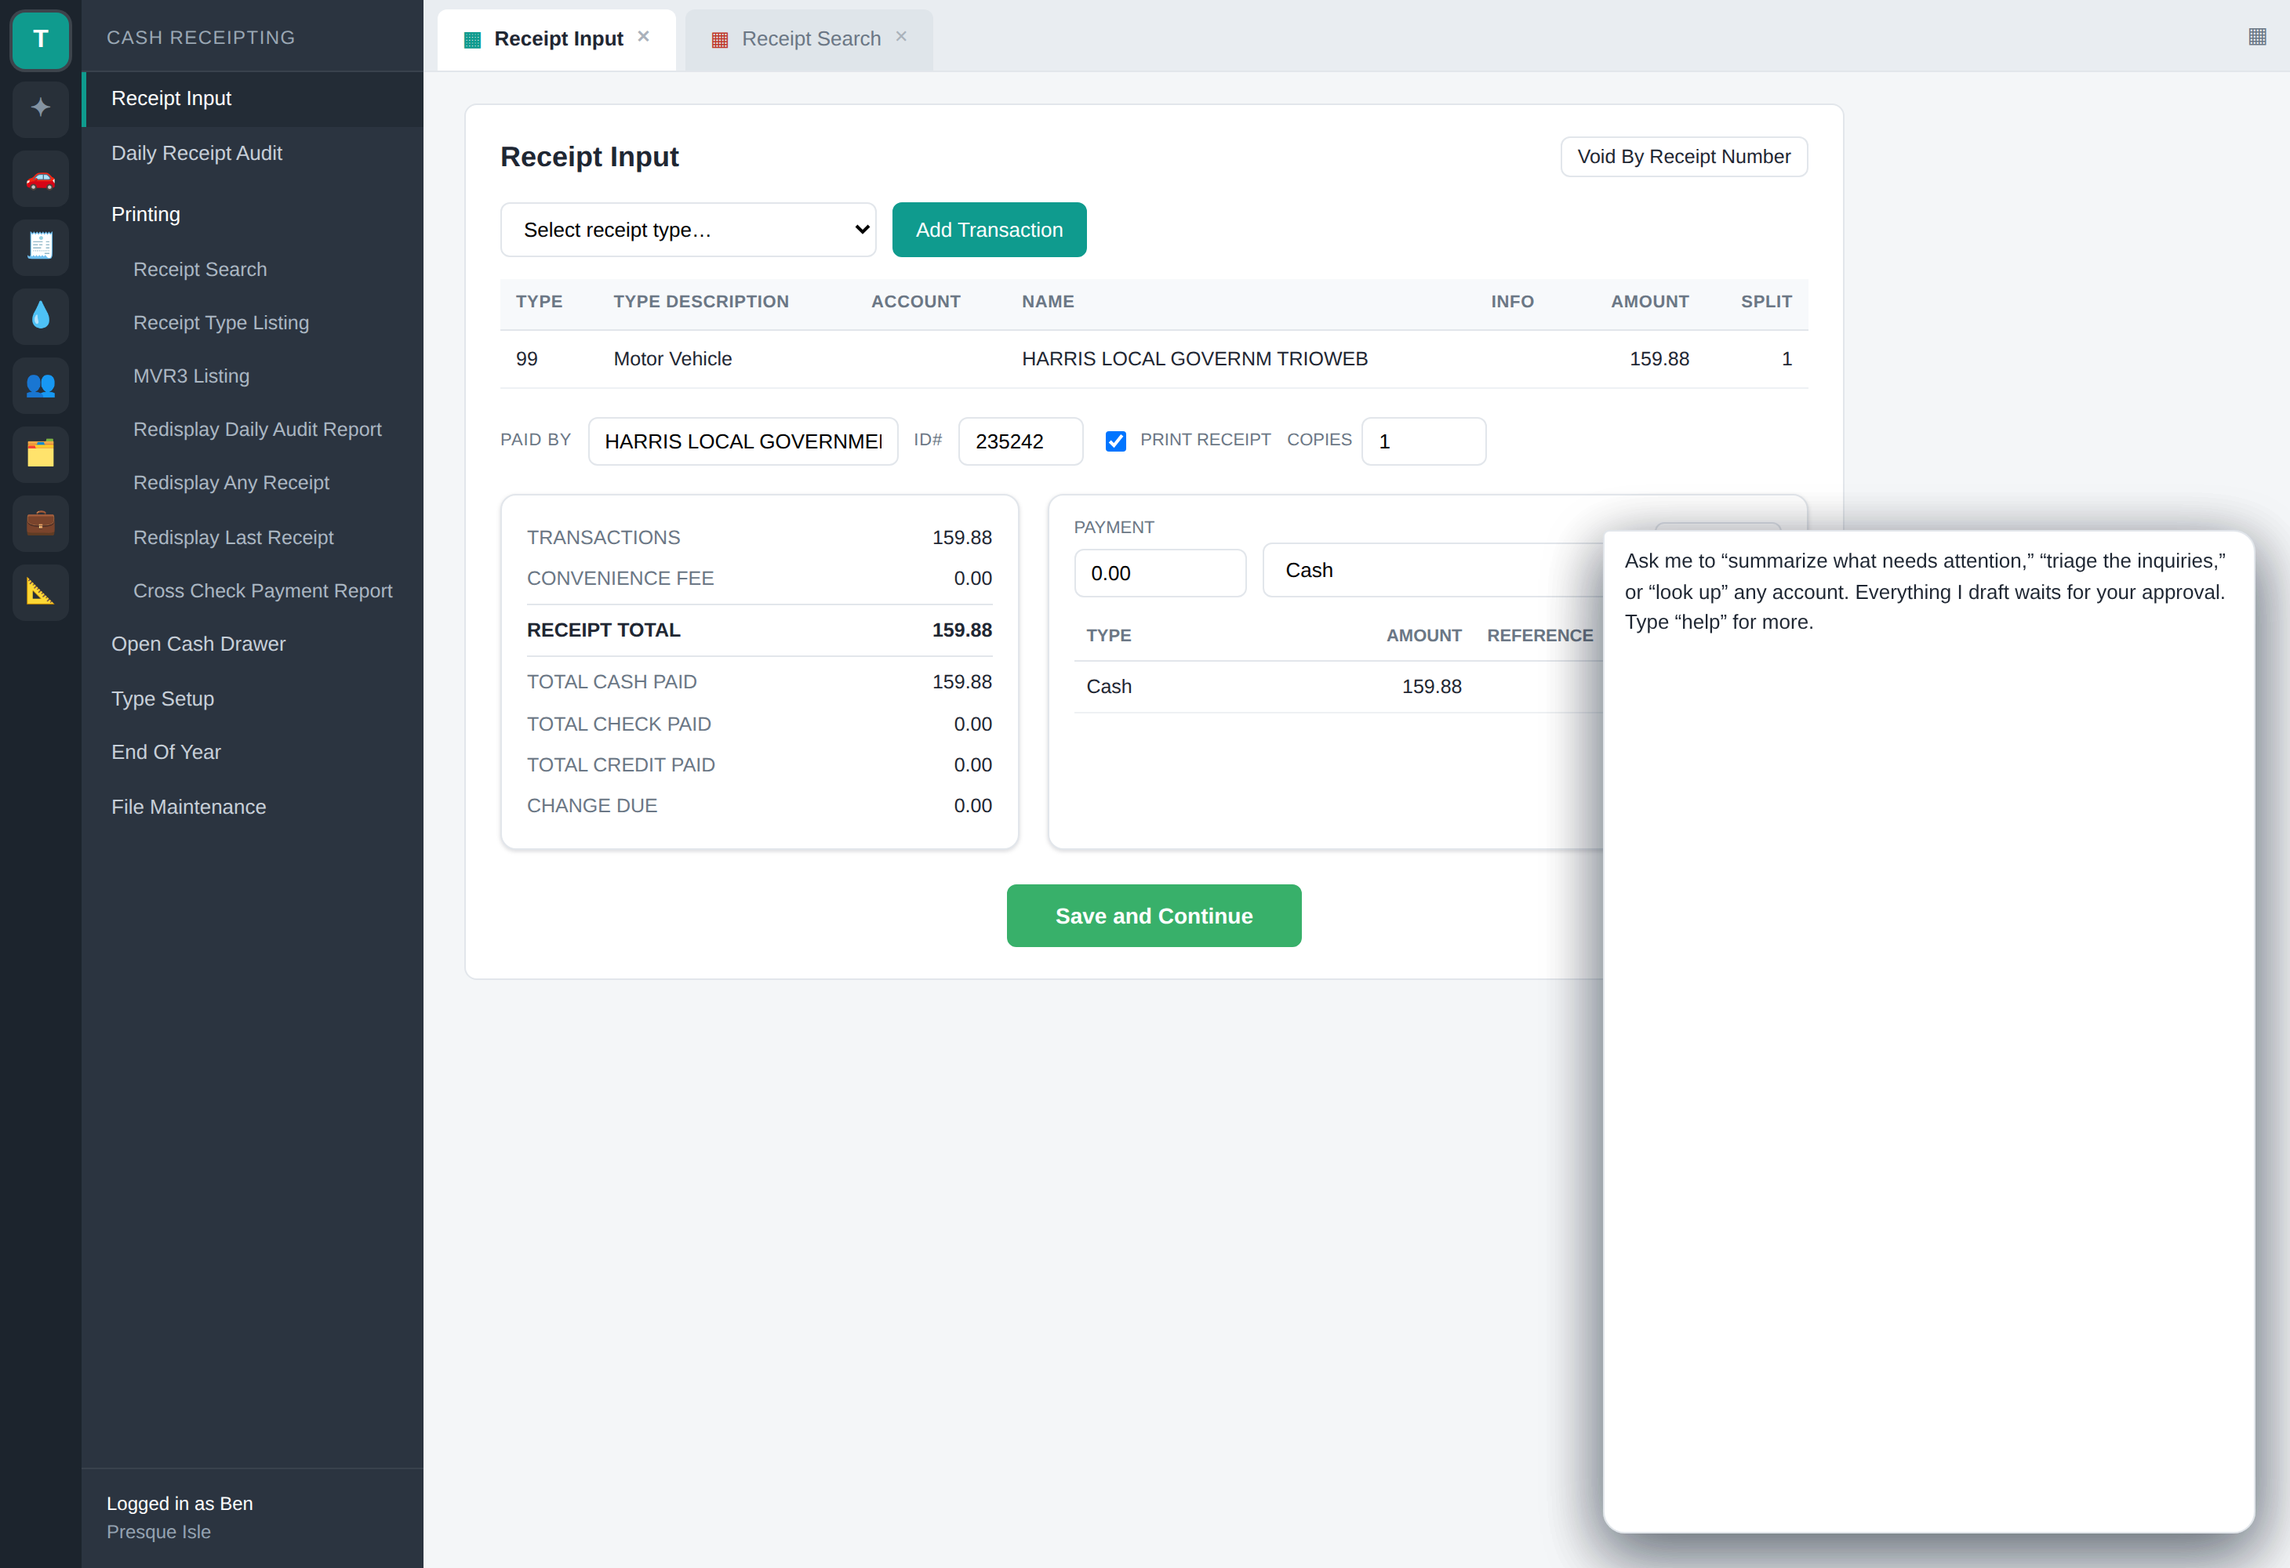
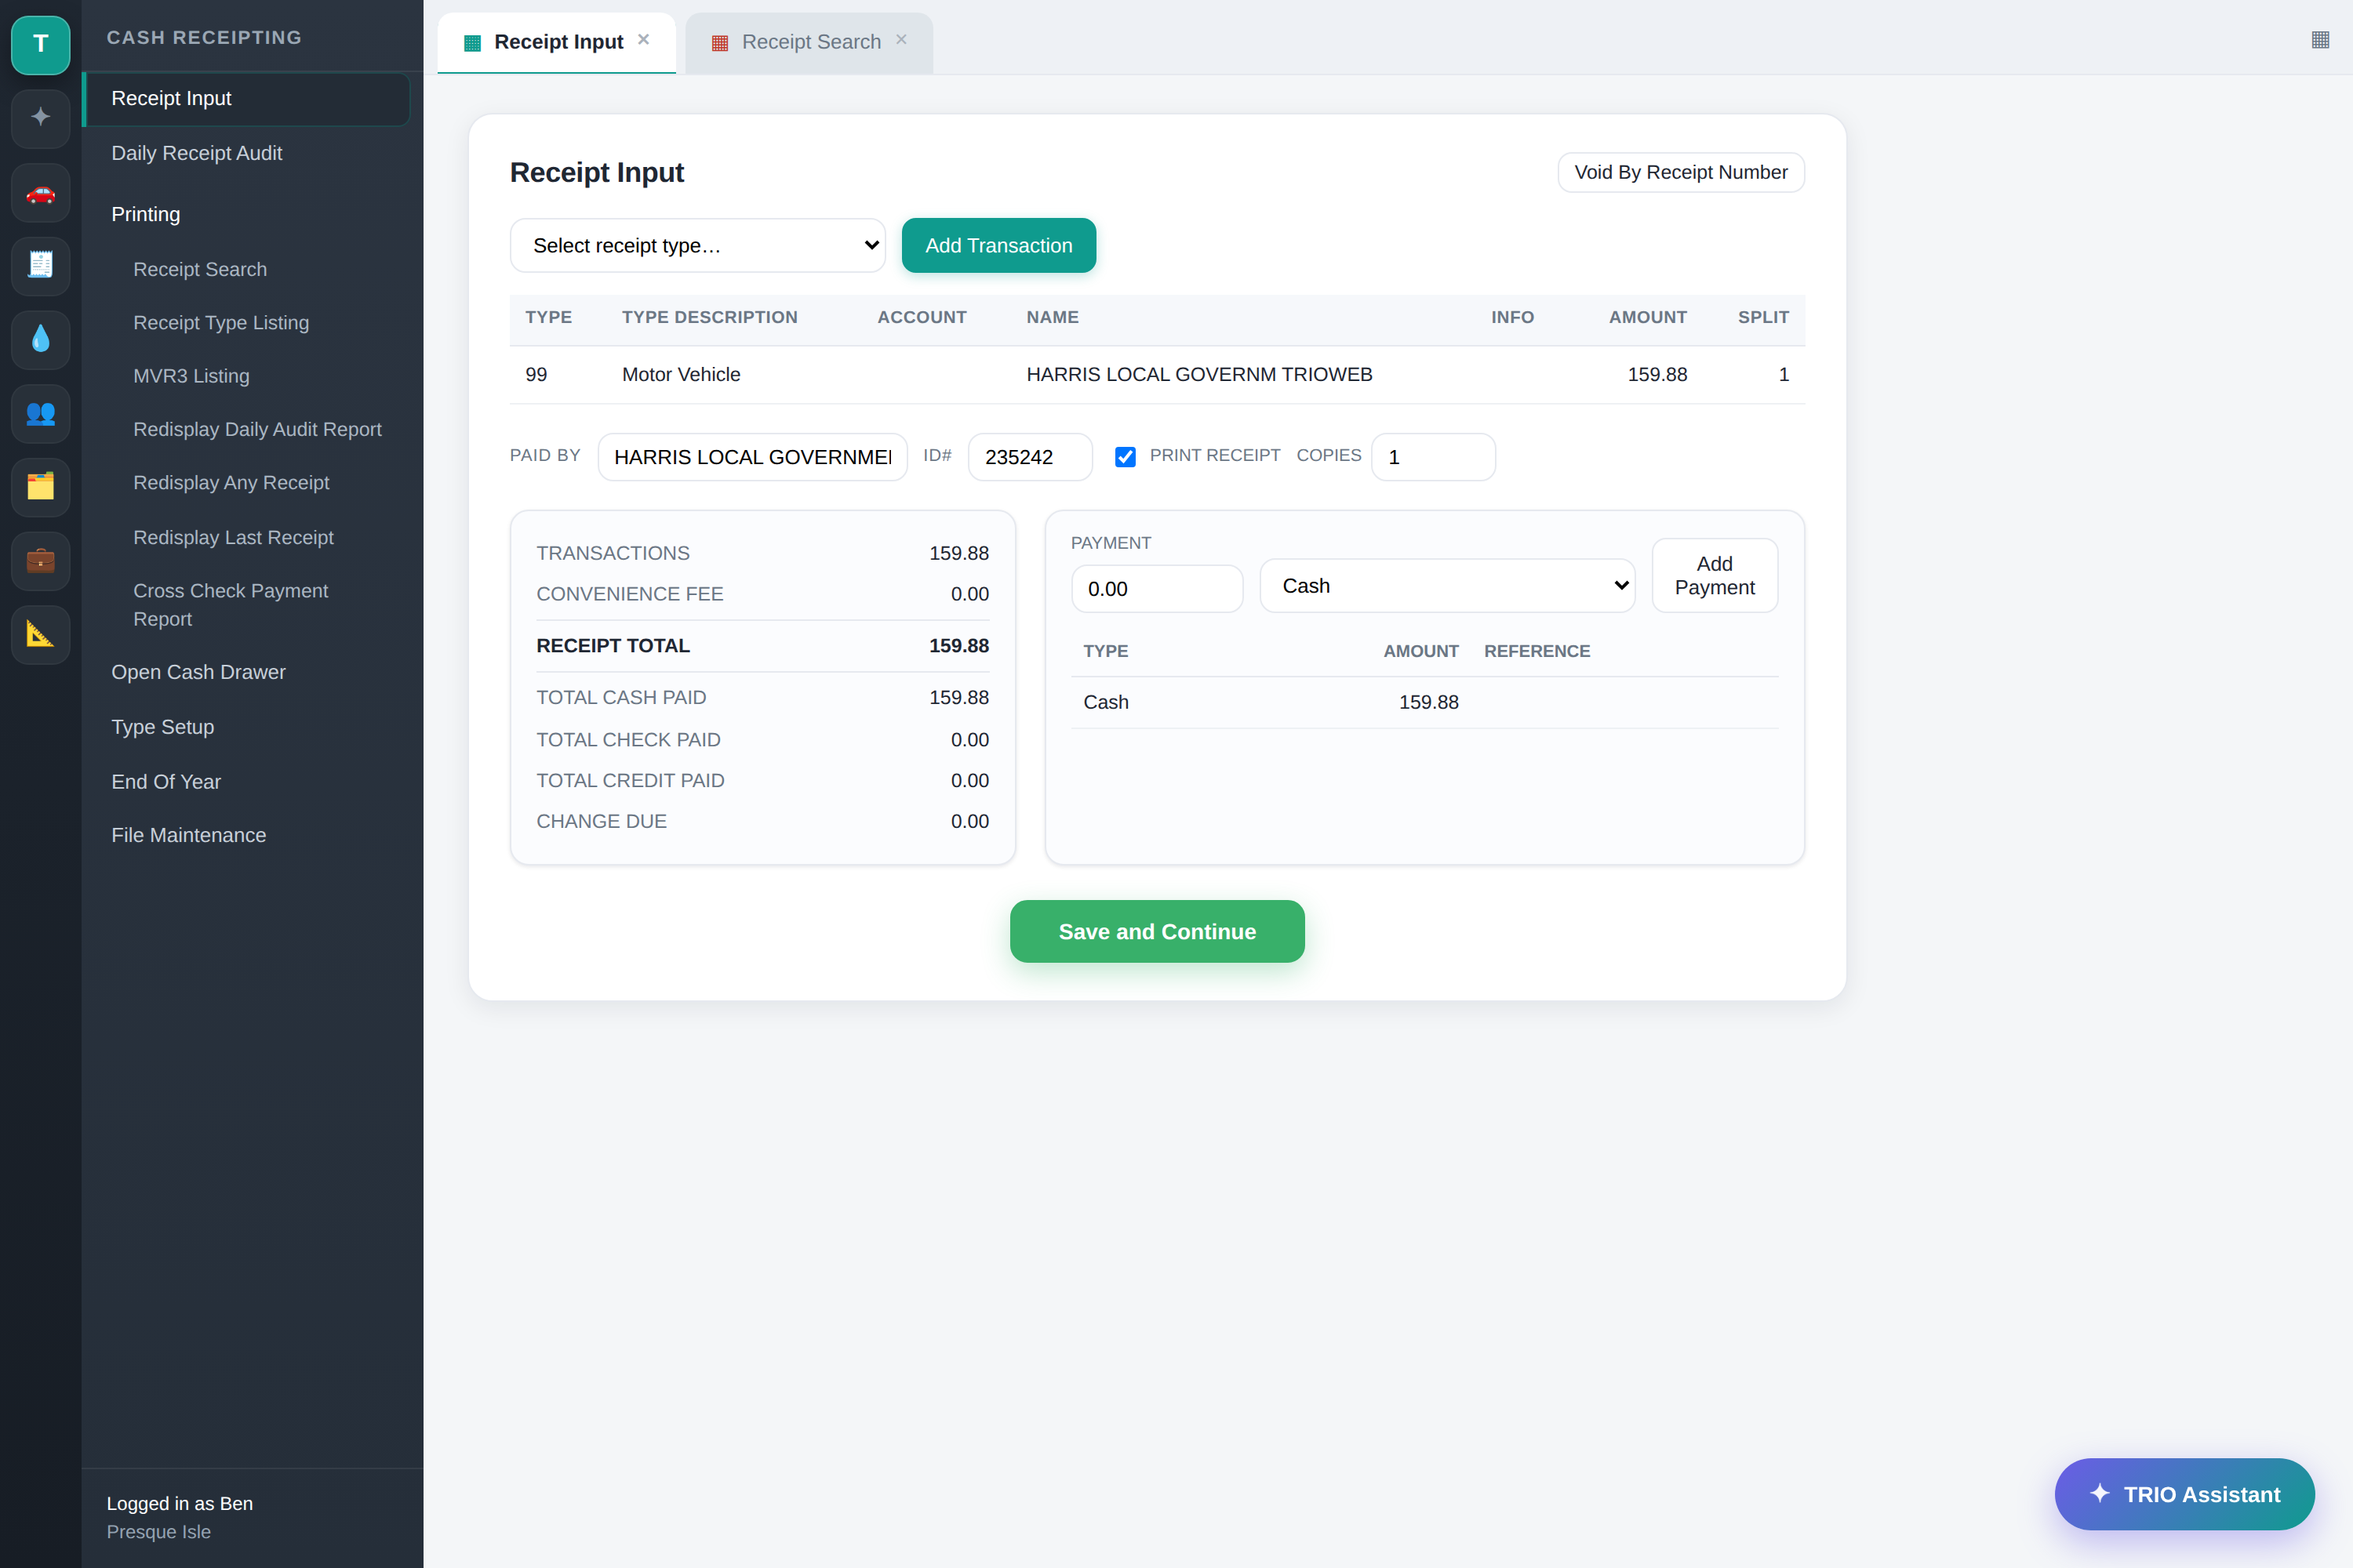
Apply modern polish across TRIO screens and Agents module
Cohesive design language matching the redesigned assistant:
- Inter typeface; refined shadows, radii, focus rings, scrollbars
- Module rail, Cash Receipting sidebar, and TRIO tabs refreshed
- Receipt Input: softer cards, rounded inputs, elevated Save button
- Agents module: indigo selection, gradient agent icon, cadence pills,
  lifting task cards, refreshed governance banner and proposal cards

https://claude.ai/code/session_01HFcHHLbNqCkH8WJaX3KkvS

diff --git a/src/index.css b/src/index.css
@@ -475,3 +475,115 @@ table.data tr:last-child td { border-bottom: none; }
 .cadence { font-size: 10.5px; font-weight: 600; color: #6c5ce7; background: #efeaff; border-radius: 10px; padding: 1px 8px; }
 .task-desc { font-size: 12.5px; color: var(--muted); margin-top: 3px; }
 .task-result { font-size: 12px; color: var(--green-dark); margin-top: 6px; }
+
+/* ===================================================================== */
+/* Modern polish layer — cohesive design language across the whole app    */
+/* ===================================================================== */
+
+:root {
+  --r-card: 14px;
+  --r-input: 10px;
+  --shadow-sm: 0 1px 2px rgba(16,24,40,.04), 0 1px 3px rgba(16,24,40,.06);
+  --shadow-md: 0 4px 16px rgba(16,24,40,.08);
+  --shadow-lg: 0 12px 36px rgba(16,24,40,.14);
+  --line: #e6e9ef;
+  --ai-1: #6c5ce7;
+  --ai-2: #0f9b8e;
+}
+
+body {
+  font-family: 'Inter', -apple-system, BlinkMacSystemFont, 'Segoe UI', Roboto, Helvetica, Arial, sans-serif;
+  -webkit-font-smoothing: antialiased;
+  -moz-osx-font-smoothing: grayscale;
+  text-rendering: optimizeLegibility;
+}
+h1, h2, h3, .section-title { letter-spacing: -0.012em; }
+::selection { background: rgba(108,92,231,.18); }
+
+/* Refined scrollbars */
+.assistant-body, .ad-body, .trio-content, .agents-roster, .cr-sidebar, .module-rail {
+  scrollbar-width: thin; scrollbar-color: #c7ccd6 transparent;
+}
+.assistant-body::-webkit-scrollbar, .ad-body::-webkit-scrollbar, .trio-content::-webkit-scrollbar,
+.agents-roster::-webkit-scrollbar { width: 8px; height: 8px; }
+.assistant-body::-webkit-scrollbar-thumb, .ad-body::-webkit-scrollbar-thumb,
+.trio-content::-webkit-scrollbar-thumb, .agents-roster::-webkit-scrollbar-thumb {
+  background: #d4d8e0; border-radius: 8px; border: 2px solid transparent; background-clip: padding-box;
+}
+.assistant-body::-webkit-scrollbar-thumb:hover { background: #b9bfca; }
+
+/* Buttons */
+.btn { border-radius: 9px; transition: background .12s, box-shadow .12s, transform .08s, border-color .12s; }
+.btn:active { transform: translateY(1px); }
+.btn-primary { box-shadow: 0 2px 8px rgba(15,155,142,.28); }
+.btn-primary:hover { box-shadow: 0 4px 14px rgba(15,155,142,.36); }
+.btn-green { box-shadow: 0 2px 8px rgba(56,176,106,.28); }
+.btn-green:hover { box-shadow: 0 4px 14px rgba(56,176,106,.36); }
+
+.card { border-radius: var(--r-card); border-color: var(--line); box-shadow: var(--shadow-sm); }
+
+/* ---- Module rail ---- */
+.module-rail { background: linear-gradient(180deg,#1f2731,#171d25); padding: 10px 0; gap: 9px; }
+.rail-icon { width: 38px; height: 38px; border-radius: 11px; transition: transform .12s, box-shadow .12s, background .12s;
+  box-shadow: inset 0 0 0 1px rgba(255,255,255,.04); }
+.rail-icon:not(.mock):hover { transform: translateY(-1px); }
+.rail-icon.active { box-shadow: 0 6px 16px rgba(0,0,0,.35), inset 0 0 0 1px rgba(255,255,255,.25); }
+
+/* ---- Cash Receipting sidebar ---- */
+.cr-sidebar { background: linear-gradient(180deg,#2b3440,#252e39); }
+.cr-brand { font-weight: 600; letter-spacing: .08em; }
+.cr-item { transition: background .12s, color .12s; border-radius: 0 8px 8px 0; margin-right: 8px; }
+.cr-item.active { box-shadow: inset 0 0 0 1px rgba(15,155,142,.25); }
+
+/* ---- TRIO tabs ---- */
+.trio-tabs { background: #eef1f5; padding-top: 2px; }
+.trio-tab { border-radius: 10px 10px 0 0; transition: background .12s, color .12s; box-shadow: none; }
+.trio-tab.active { box-shadow: 0 -1px 0 var(--teal) inset; }
+
+/* ---- Receipt Input screen ---- */
+.trio-content { padding: 24px 28px; }
+.tr-screen { border-radius: 16px; box-shadow: var(--shadow-md); border-color: var(--line); padding: 24px 26px; }
+.tr-screen-head h2 { font-weight: 700; }
+.tr-select, .tr-paidby input, .tr-amount {
+  border-radius: var(--r-input); transition: border-color .12s, box-shadow .12s;
+}
+.tr-select:focus, .tr-paidby input:focus, .tr-amount:focus {
+  outline: none; border-color: var(--teal); box-shadow: 0 0 0 3px rgba(15,155,142,.12);
+}
+.tr-trans th { background: #f6f8fb; }
+.tr-trans tbody tr:hover { background: #fafbfc; }
+.tr-totals, .tr-payment { background: #fbfcfe; border-radius: 12px; }
+.tr-total.strong { border-color: var(--line); }
+.tr-save .btn { border-radius: 11px; box-shadow: 0 6px 18px rgba(56,176,106,.32); }
+.tr-save .btn:hover { transform: translateY(-1px); }
+
+/* ---- Agents module ---- */
+.agents-topbar { box-shadow: var(--shadow-sm); }
+.agents-topbar-icon { background: linear-gradient(135deg,var(--ai-1),var(--ai-2)); box-shadow: 0 6px 16px rgba(108,92,231,.3); }
+
+.agents-roster { padding: 10px; }
+.roster-item { border-radius: 11px; transition: background .12s, box-shadow .12s, transform .08s; border: 1px solid transparent; margin-bottom: 2px; }
+.roster-item:hover { background: #f5f6f9; }
+.roster-item.active { background: #efeaff; border-color: #e0d9fb; box-shadow: 0 2px 8px rgba(108,92,231,.1); }
+.roster-item.active .ri-icon { background: linear-gradient(135deg,var(--ai-1),var(--ai-2)); color: #fff; }
+.ri-icon { transition: background .12s, color .12s; }
+
+.ad-head { background: linear-gradient(180deg,#ffffff,#fbfaff); }
+.ad-icon { background: linear-gradient(135deg,#efeaff,#e3f4f2); box-shadow: inset 0 0 0 1px rgba(108,92,231,.12); }
+.ad-head h2 { font-weight: 700; }
+.ad-systems span { background: #f1f3f8; border: 1px solid var(--line); }
+
+.task-card { border-radius: 14px; transition: border-color .12s, box-shadow .12s, transform .08s; }
+.task-card:hover { border-color: #cfd5e0; box-shadow: var(--shadow-md); transform: translateY(-1px); }
+.cadence { background: #efeaff; color: #5a4bd0; }
+
+/* Card / proposal refinements */
+.proposal { border-radius: var(--r-card); }
+.draft-box { border-radius: 10px; background: #fafbfd; }
+.kind-tag { background: #efeaff; color: #5a4bd0; }
+
+/* Governance banner refresh */
+.governance-banner { border-radius: 12px; background: linear-gradient(90deg,#eef9f2,#eef1fe); border-color: #cfe9d8; }
+
+/* Subtle fade-in for content panes */
+.trio-content > .tr-screen, .agents-console { animation: rise .22s ease; }

diff --git a/index.html b/index.html
@@ -4,6 +4,12 @@
     <meta charset="UTF-8" />
     <meta name="viewport" content="width=device-width, initial-scale=1.0" />
     <title>TRIO + CAMA Operating Layer — Prototype</title>
+    <link rel="preconnect" href="https://fonts.googleapis.com" />
+    <link rel="preconnect" href="https://fonts.gstatic.com" crossorigin />
+    <link
+      href="https://fonts.googleapis.com/css2?family=Inter:wght@400;500;600;700;800&display=swap"
+      rel="stylesheet"
+    />
   </head>
   <body>
     <div id="root"></div>
